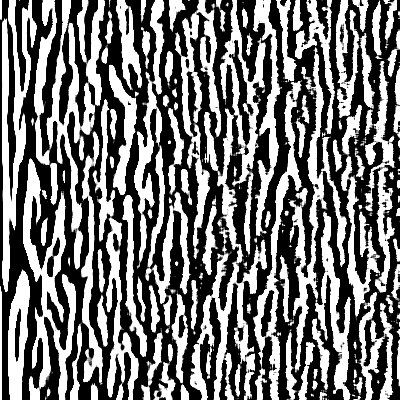
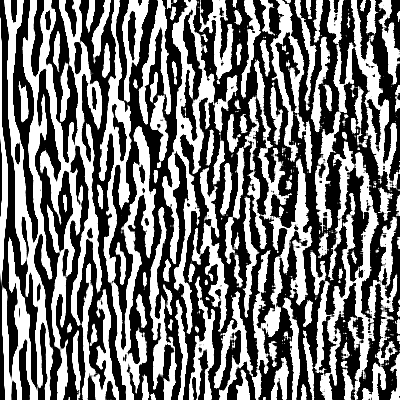
added inverse image infromation to detection

diff --git a/PycharmProjects/disserProj/src/correction/correction.py b/PycharmProjects/disserProj/src/correction/correction.py
@@ -5,7 +5,7 @@ def image_correction(imagePath, truthPath=None, info=0, thresh=5000, height=100,
     start_time = time.time()
     # detection stage
 
-    JAC, RWM, detectedRings = calculate(imagePath, truthPath, info, thresh, height, center_height, only_jaccard_metrics=True)
+    JAC, RWM, detectedRings = calculate(imagePath, truthPath, info, thresh, height, center_height, only_jaccard_metrics=False)
 
     # correction stage
     start_time = time.time()
@@ -24,8 +24,8 @@ def image_correction(imagePath, truthPath=None, info=0, thresh=5000, height=100,
 
 if __name__ == "__main__":
     #5
-    imagePath = "../../papka/AllRings/rings/rings4.png"
-    truthPath = "../../papka/AllRings/marked/marked4.png"
+    imagePath = "../../papka/AllRings/rings/rings2.png"
+    truthPath = "../../papka/AllRings/marked/marked2.png"
     #[4337.00000000 131.00000000 40.00000000 0.35580709]
     #truth = cv.imread(truthPath, 1)
     #truth = cv.inRange(truth, bot, top)
@@ -39,32 +39,7 @@ if __name__ == "__main__":
 
 
     #4749 151
-    image_correction(imagePath, truthPath, info=0, thresh=4749, height=151, center_height=40)
+    image_correction(imagePath, truthPath, info=1, thresh=4749, height=109, center_height=40)
 
     #jac,r , p = calculate(imagePath, truthPath, info=0, thresh=5000, height=100, center_height=40, only_jaccard_metrics=True)
     #print(jac)
-"""
-    TASKS:
-    
-    все собрать вместе
-    
-    поробовать провести сравнение в результатах, чтобы было видно, что мы, оптимизируя параметры, увеличиваем метрику
-    
-    берется образец, делается множество теневых проекций, пропуская через него лучи и получая теневые проекции
-    далее из этих проекций восстанавливается трехмерное изображение объекта
-    
-    на этом изображении могут присутствовать кольцевые артефакты, в их общем понимании, в том случае если на стадии 
-    реконструкции не применялись никакие алгоритмы по их подавлению
-    
-    В случае же, если таковые алгоритмы применялись, мы получаем наши стандартные кольцевые артефакты 
-    
-    
-    причины возникновения рингов в целом: 
-    битые пиксели, небезупречность аппаратуры, ослабление сигнала на любой из стадий + различные устройства 
-    
-    
-    метрики на каждом этапе алгоритма
-    
-    cross validation
-    
-"""

diff --git a/PycharmProjects/disserProj/src/core/find_rings.py b/PycharmProjects/disserProj/src/core/find_rings.py
@@ -179,8 +179,35 @@ def read_image_slices(input_folder, input_name, start_index=0, step=1):
     bin_result = np.uint8(bin_result)
     cv.imwrite("../../result.png", bin_result)
 
+def use_inverted(img, thresh_bound, showInfo, res_img_prefix):
+    inverted_img = 255 - img
+
+    inv_contr_img = equal_contrast(inverted_img)
+    # преобразуем в полярную систему координат
+    inv_polar = cv.linearPolar(inv_contr_img, (inv_contr_img.shape[1] // 2, inv_contr_img.shape[0] // 2),
+                               inv_contr_img.shape[1] // 2,
+                               cv.WARP_FILL_OUTLIERS)
+    inv_convolved_polar = ndimage.convolve(np.float32(inv_polar), CONV_KERNEL_BIG)
+    inv_abs_polar = np.abs(inv_convolved_polar)
+    inverted_img = None
+    inv_polar = None
+    inv_contr_img = None
+
+    # THRESHOLDING
+    THRESH = thresh_bound
+    ret, inv_bin_result = cv.threshold(inv_abs_polar, THRESH, 255, cv.THRESH_BINARY)
+    inv_bin_result = np.uint8(inv_bin_result)
+    if showInfo == 1:
+        cv.imwrite("../../results/" + res_img_prefix + "inv_bin_result.png", inv_bin_result)
+
+    inv_abs_polar = None
+    return inv_bin_result
 
 def findRingsConnected(img, showInfo=0, thresh_bound=2000, height_bound=0, res_img_prefix=''):
+    # using inverted image to get additional information
+    #inv_bin_res = use_inverted(img, thresh_bound, showInfo, res_img_prefix)
+
+    #contrast correction of image
     contr_img = equal_contrast(img)
 
     # преобразуем в полярную систему координат
@@ -212,6 +239,9 @@ def findRingsConnected(img, showInfo=0, thresh_bound=2000, height_bound=0, res_i
     bin_result = np.uint8(bin_result)
     if showInfo == 1:
         cv.imwrite("../../results/" + res_img_prefix + "bin_result.png", bin_result)
+
+    #ADDIG INVERTED TO RESULTS
+    #bin_result = cv.bitwise_or(inv_bin_res, bin_result)
 
     # MORPHOLOGY
     morph = cv.morphologyEx(bin_result, cv.MORPH_CLOSE, MORPH_KERNEL)
@@ -282,6 +312,7 @@ def findRingsConnected(img, showInfo=0, thresh_bound=2000, height_bound=0, res_i
     centroids = None
     heights = None
     return result
+
 
 
 def calculate(imagePath, truthPath=None, info=0, thresh=2000, height=2000, center_height=2000,
